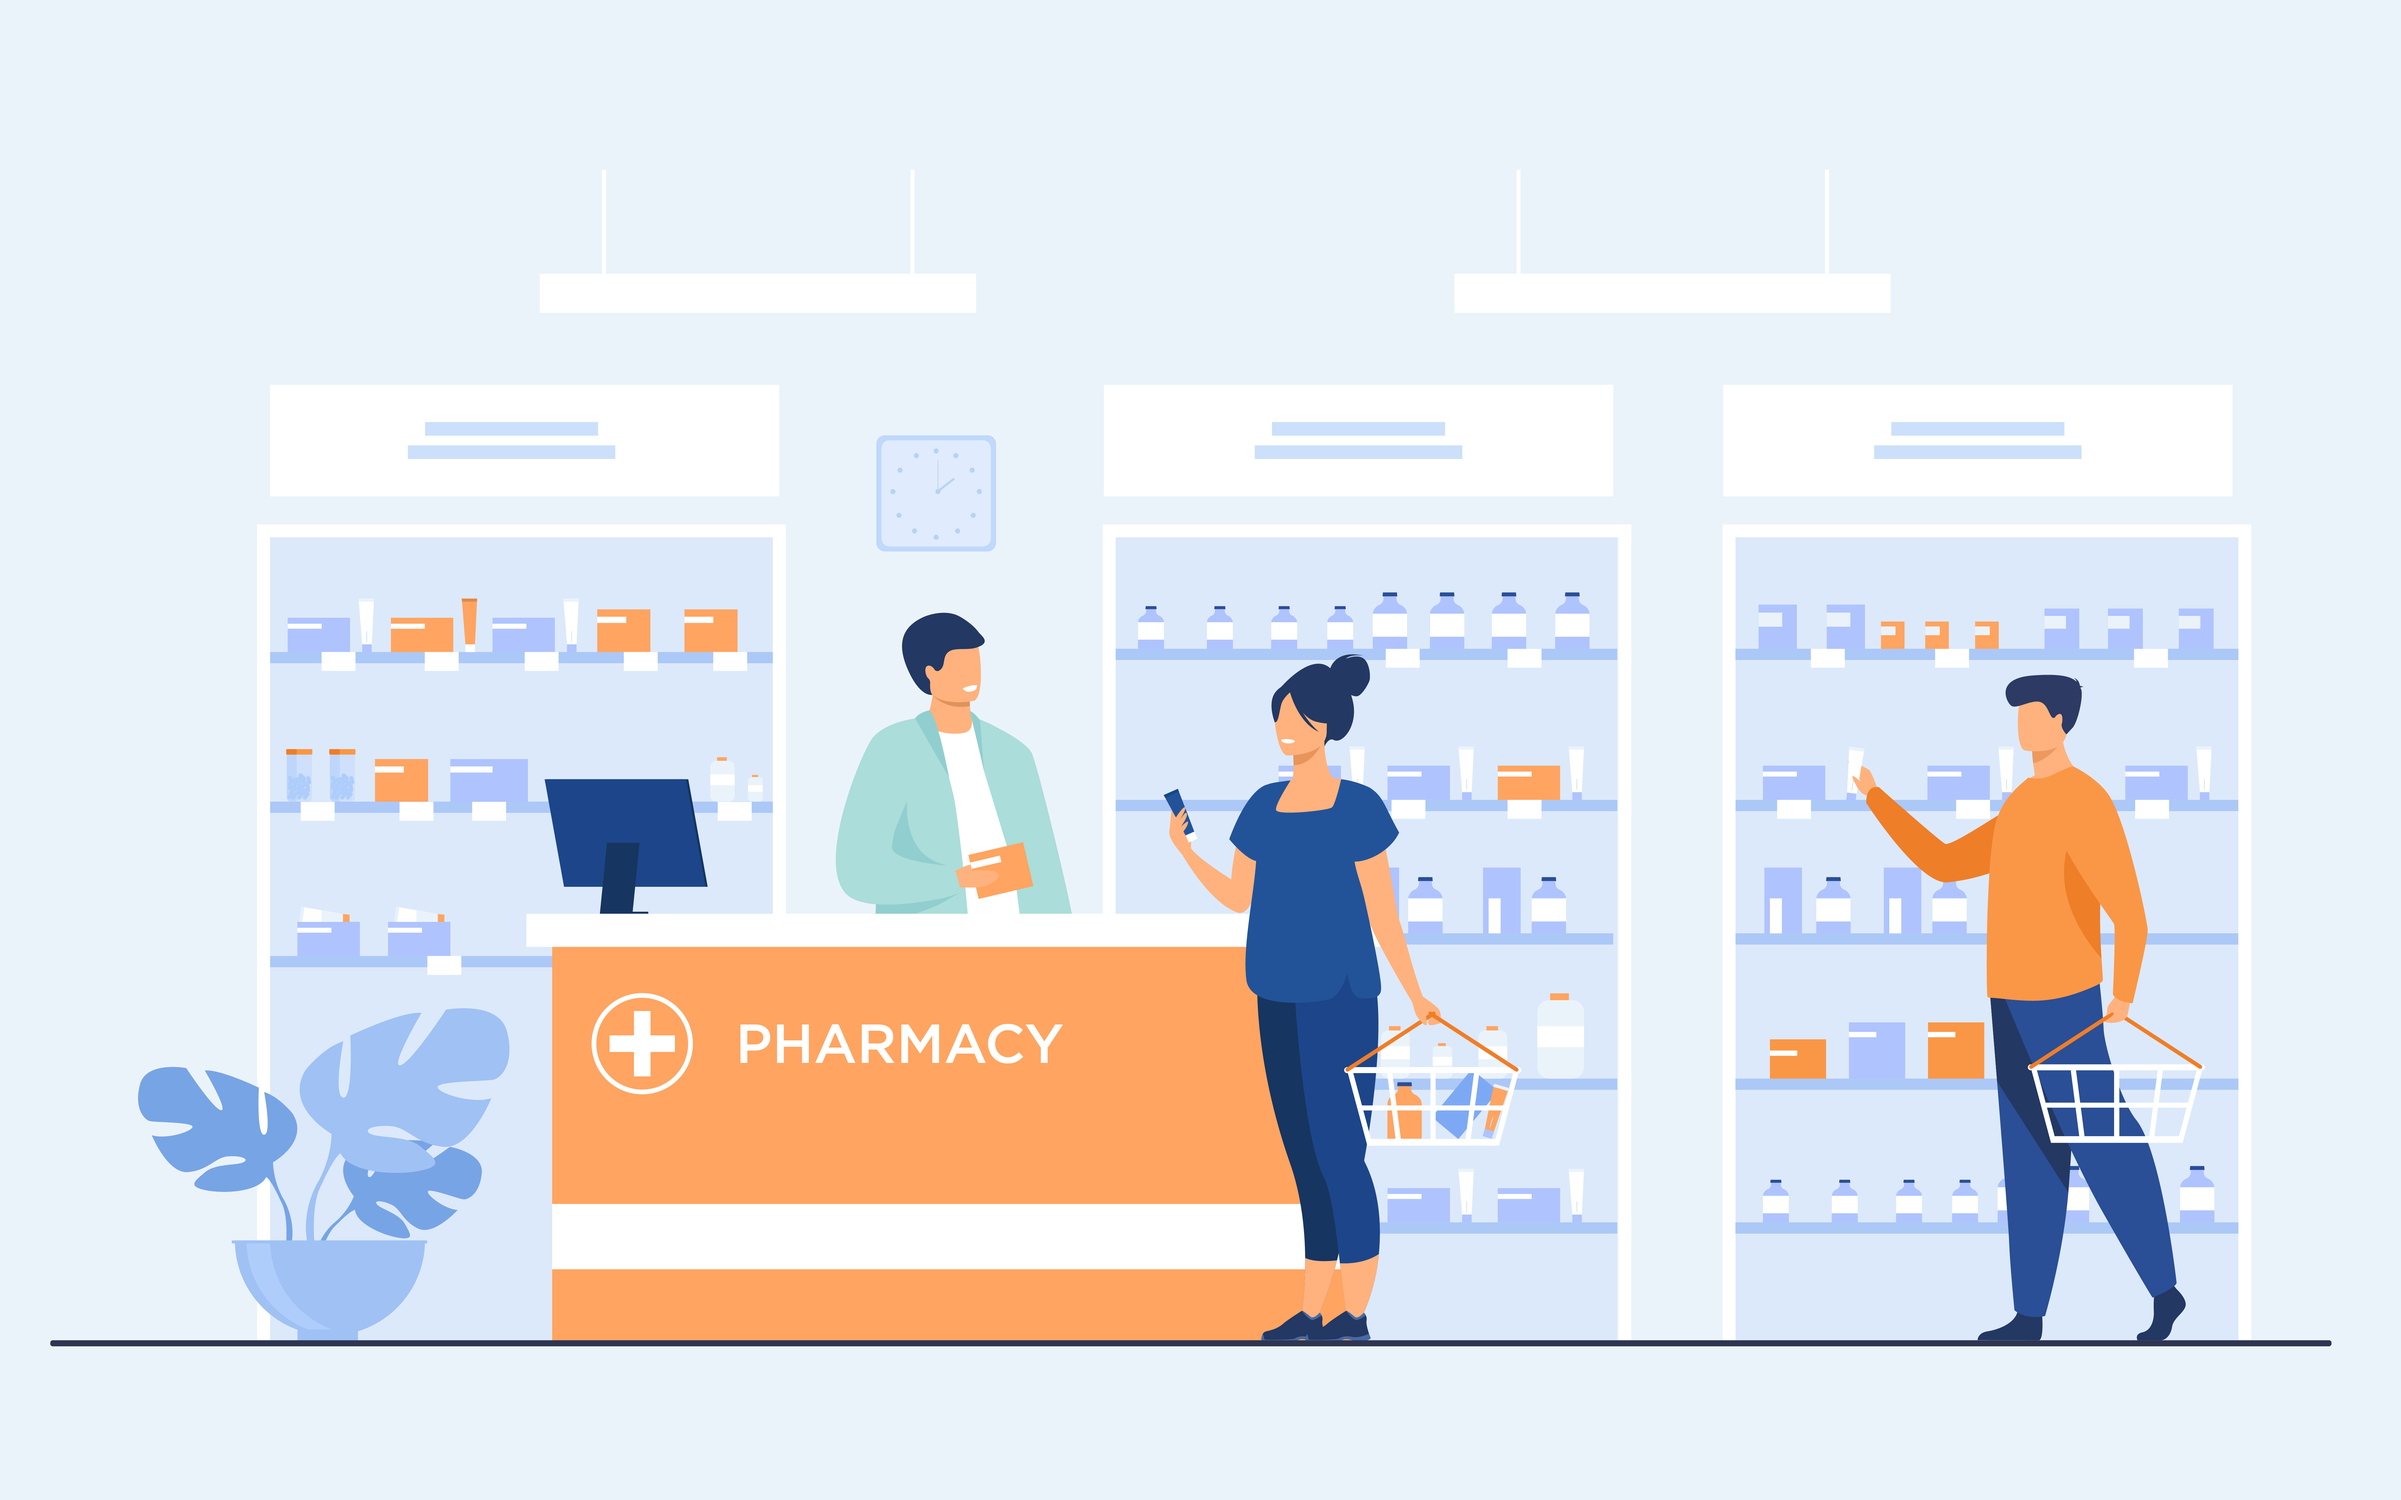
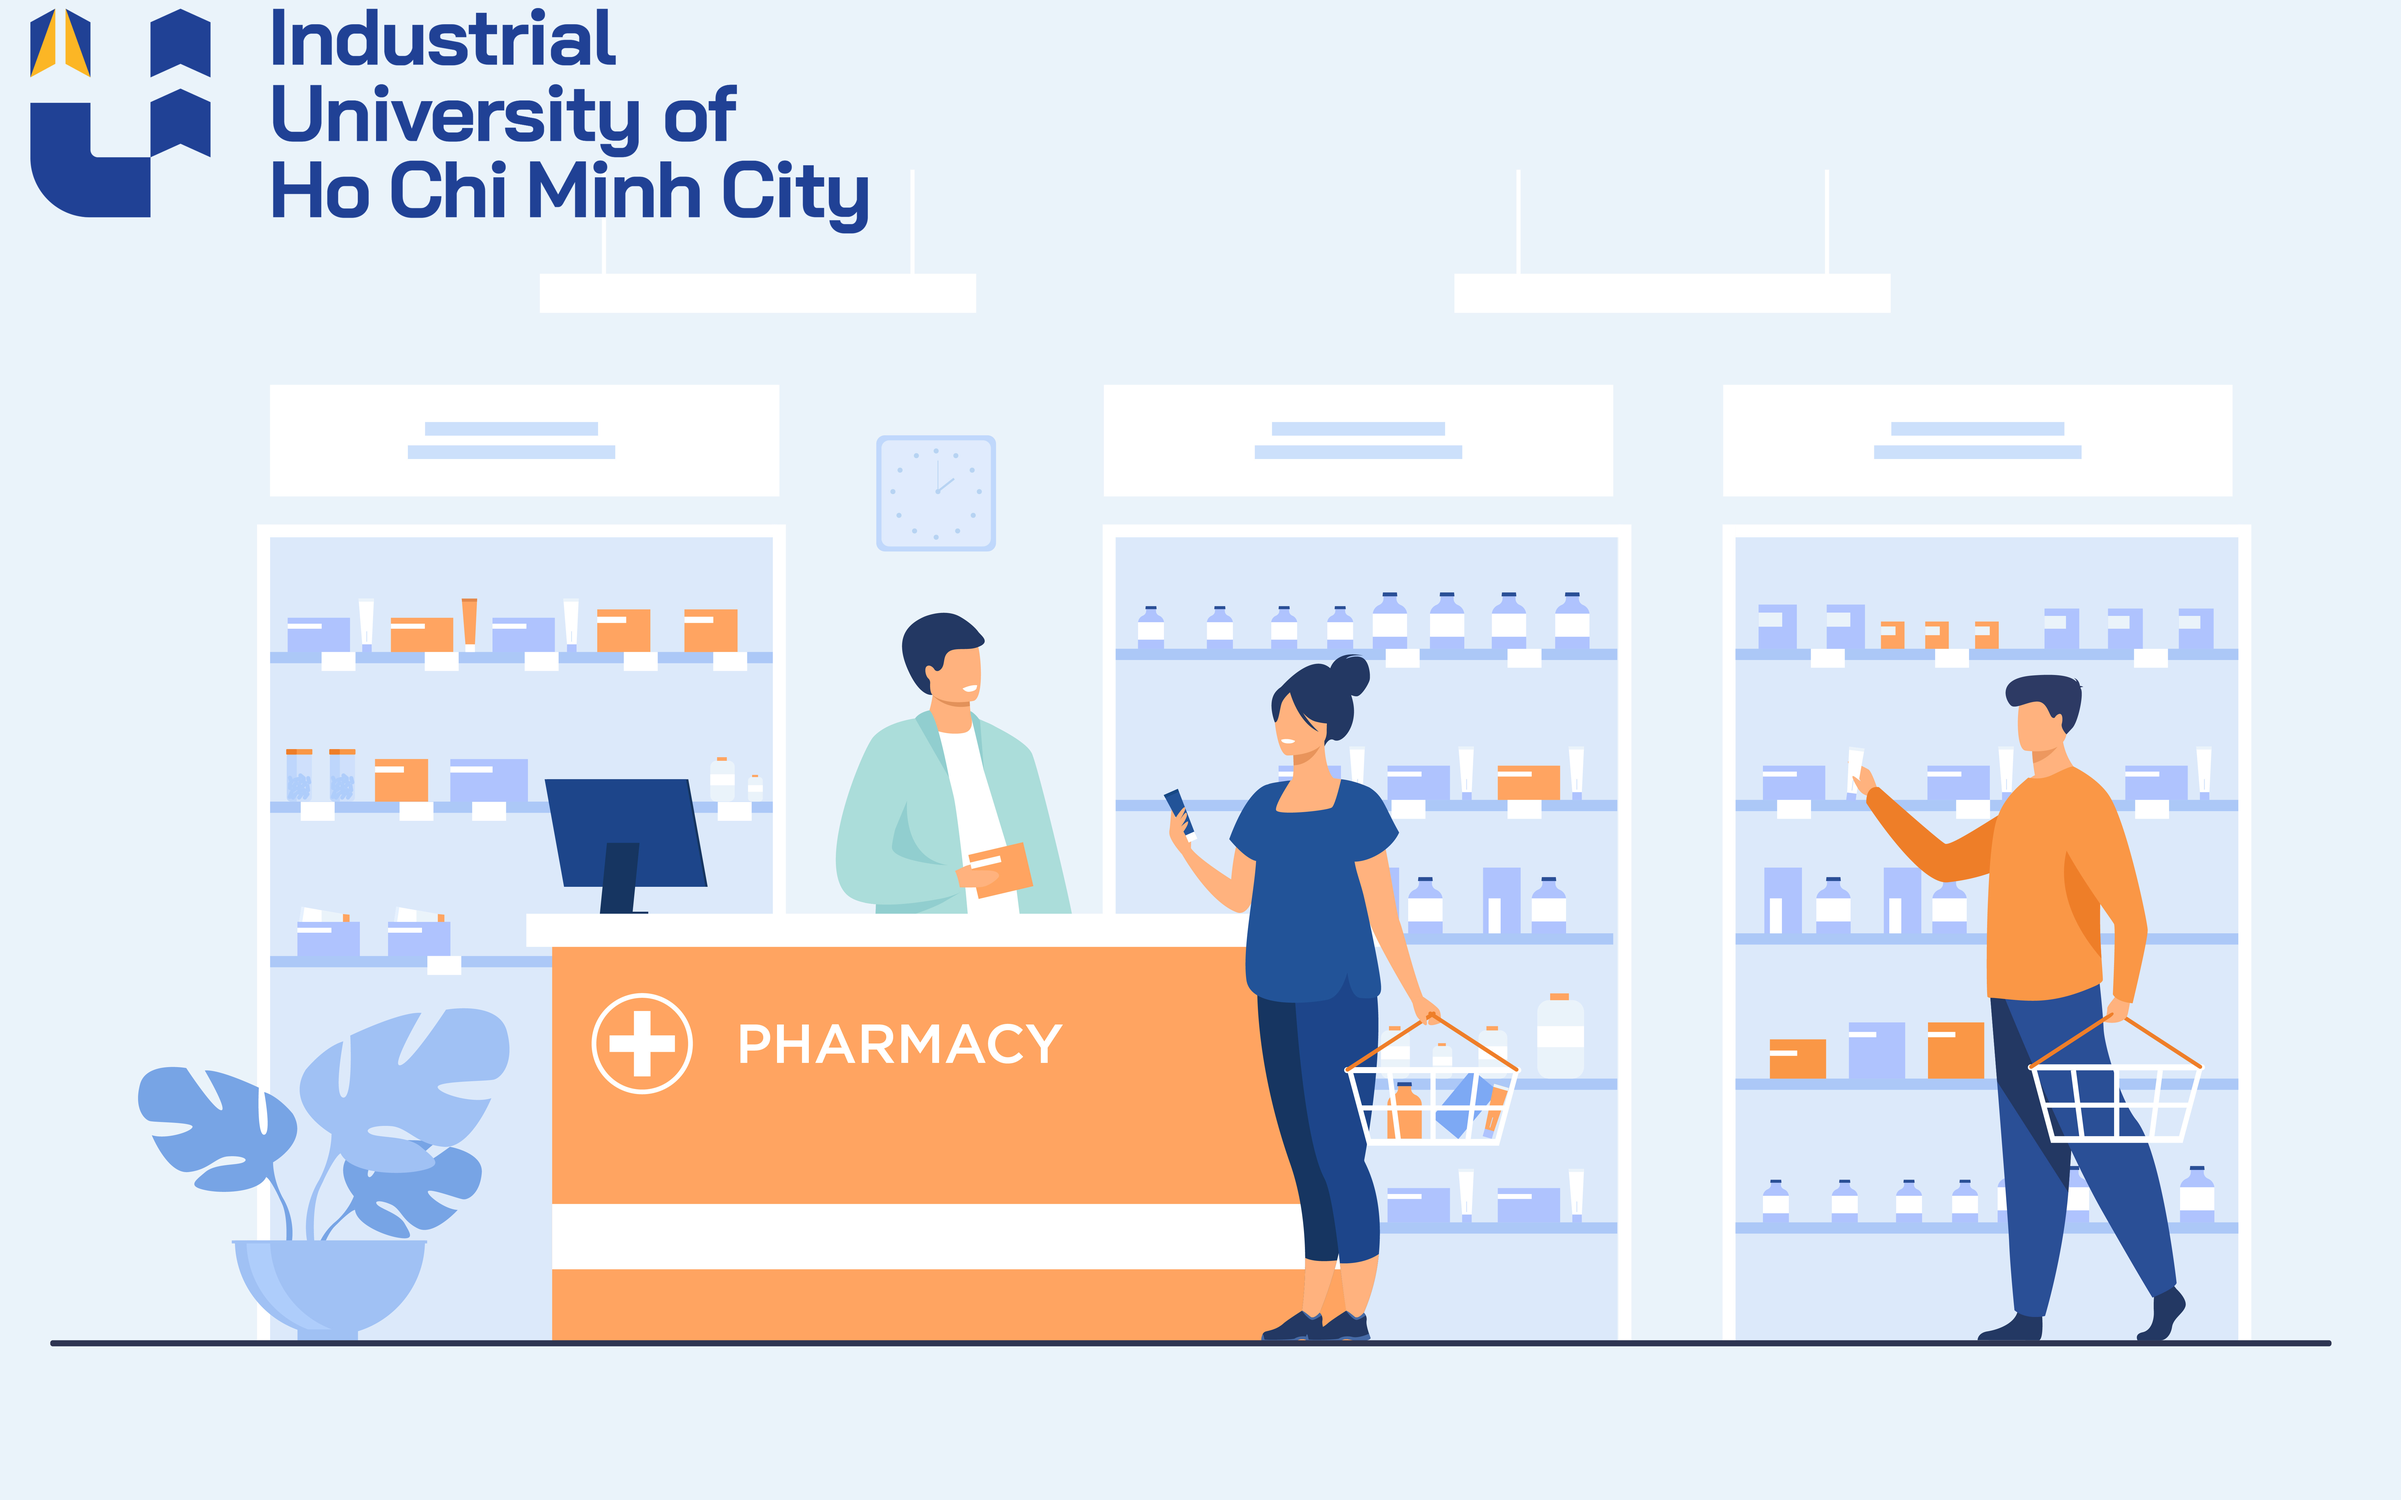
fix: UI

Changed region(s): [[0.0, 0.0, 0.375, 0.156]]

diff --git a/src/main/java/vn/edu/iuh/fit/iuhpharmacitymanagement/gui/application/loading/SplashScreen.java b/src/main/java/vn/edu/iuh/fit/iuhpharmacitymanagement/gui/application/loading/SplashScreen.java
@@ -32,8 +32,8 @@ public class SplashScreen extends javax.swing.JFrame {
         BackgroundPanel.setComponentZOrder(progressBar, 0); // ProgressBar ở lớp trên cùng
         BackgroundPanel.setComponentZOrder(lblLoading, 1);
         
-        BackgroundPanel.setComponentZOrder(IUHLogo, 3);
-        BackgroundPanel.setComponentZOrder(BackgroundImg, 3);
+//        BackgroundPanel.setComponentZOrder(IUHLogo, 3);
+        BackgroundPanel.setComponentZOrder(BackgroundImg, 2);
 
         setLocationRelativeTo(null);
         setResizable(false);
@@ -46,9 +46,9 @@ public class SplashScreen extends javax.swing.JFrame {
                 
                 // Bước 2: Load hình ảnh (thực tế)
                 updateProgress("Đang tải hình ảnh...", 5);
-                setImageToLabel(BackgroundImg, "/img/LoadingImage.png");
+                setImageToLabel(BackgroundImg, "/img/LoadingImageCopy.png");
                 updateProgress("Đang tải hình ảnh...", 10);
-                setImageToLabel(IUHLogo, "/img/IUH.png");
+                //setImageToLabel(IUHLogo, "/img/IUH_New.png");
                 updateProgress("Đã tải hình ảnh", 15);
                 
                 // Bước 3: Kết nối database (thực tế)
@@ -157,7 +157,6 @@ public class SplashScreen extends javax.swing.JFrame {
 
         BackgroundPanel = new javax.swing.JPanel();
         BackgroundImg = new javax.swing.JLabel();
-        IUHLogo = new javax.swing.JLabel();
         progressBar = new javax.swing.JProgressBar();
         lblLoading = new javax.swing.JLabel();
 
@@ -173,12 +172,6 @@ public class SplashScreen extends javax.swing.JFrame {
         BackgroundImg.setText("BackgroundImage");
         BackgroundImg.setPreferredSize(new java.awt.Dimension(1200, 600));
         BackgroundPanel.add(BackgroundImg, new org.netbeans.lib.awtextra.AbsoluteConstraints(3, -2, 1200, 600));
-
-        IUHLogo.setText("IUHLogo");
-        IUHLogo.setMaximumSize(new java.awt.Dimension(424, 300));
-        IUHLogo.setMinimumSize(new java.awt.Dimension(424, 300));
-        IUHLogo.setPreferredSize(new java.awt.Dimension(424, 300));
-        BackgroundPanel.add(IUHLogo, new org.netbeans.lib.awtextra.AbsoluteConstraints(10, 10, 250, 140));
 
         progressBar.setStringPainted(true);
         BackgroundPanel.add(progressBar, new org.netbeans.lib.awtextra.AbsoluteConstraints(6, 576, 1190, -1));
@@ -267,7 +260,6 @@ public class SplashScreen extends javax.swing.JFrame {
     // Variables declaration - do not modify//GEN-BEGIN:variables
     private javax.swing.JLabel BackgroundImg;
     private javax.swing.JPanel BackgroundPanel;
-    private javax.swing.JLabel IUHLogo;
     private javax.swing.JLabel lblLoading;
     private javax.swing.JProgressBar progressBar;
     // End of variables declaration//GEN-END:variables
